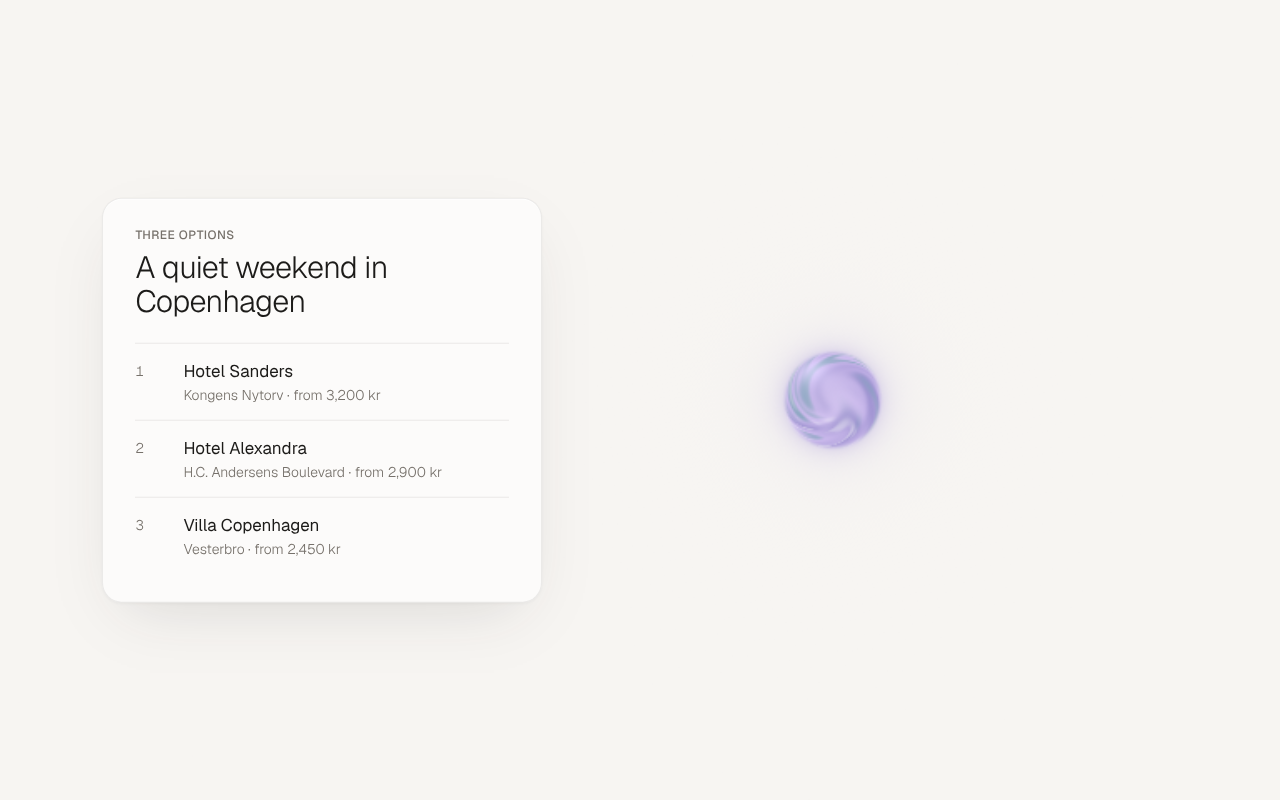
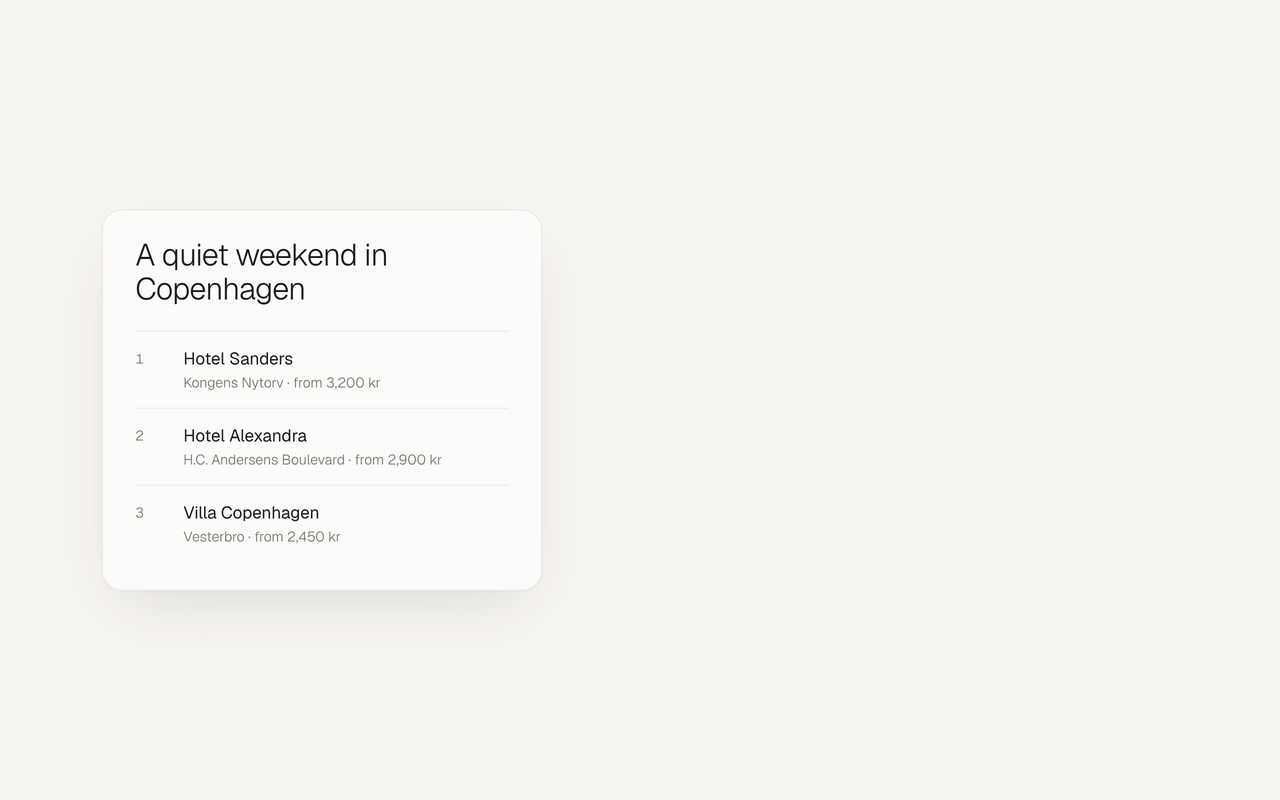
Sharpen the orb, halve its size, drop surface eyebrows
Renders at the display's full pixel density (up to 3x) and stops the
quality governor from going below 1x, gives the orb a pixel-accurate edge
with a hairline of light, and adds fine filaments for definition. The
resting radius halves to 4.25% of the shorter side. Card headings lose
their eyebrow label.

Claude-Session: https://claude.ai/code/session_013Z5uRQHKodhE83WyJZyku8

diff --git a/packages/web/src/orb/placement.ts b/packages/web/src/orb/placement.ts
@@ -14,9 +14,9 @@ export interface Placement {
 }
 
 /** Orb radius as a fraction of the shorter screen side: small, so the page feels open. */
-export const RESTING_SIZE = 0.085;
+export const RESTING_SIZE = 0.0425;
 /** Radius while content is on screen. */
-export const SHARING_SIZE = 0.055;
+export const SHARING_SIZE = 0.03;
 /** Breathing room between the orb, content and the screen edge (fraction of shorter side). */
 const GAP = 0.06;
 /** Candidate positions per axis when searching for open space. */
@@ -61,6 +61,6 @@ export function openSpacePlacement(width: number, height: number, occupied: Rect
   }
 
   // If the content leaves very little room, shrink rather than overlap.
-  const fit = Math.max(best.clearance - short * GAP * 0.5, short * 0.025);
+  const fit = Math.max(best.clearance - short * GAP * 0.5, short * 0.015);
   return { x: best.x, y: best.y, radius: Math.min(radius, fit) };
 }

diff --git a/packages/web/src/main.ts b/packages/web/src/main.ts
@@ -22,8 +22,10 @@ const orb = new Orb(canvas, { reducedMotion });
 const audio = new AudioLevels();
 const meter = new FrameMeter();
 const perf = new PerfOverlay();
-const maxRatio = Math.min(window.devicePixelRatio, 2);
-const quality = new QualityGovernor(maxRatio, maxRatio, (ratio) => orb.setPixelRatio(ratio));
+// Render at the display's full density (the orb is small, so this is cheap), and never
+// let the governor drop below one buffer pixel per CSS pixel: softness reads as blur.
+const maxRatio = Math.min(window.devicePixelRatio, 3);
+const quality = new QualityGovernor(maxRatio, maxRatio, (ratio) => orb.setPixelRatio(ratio), 1);
 
 if (new URLSearchParams(location.search).has('perf')) perf.toggle(true);
 

diff --git a/packages/web/src/dev/demo-surface.ts b/packages/web/src/dev/demo-surface.ts
@@ -28,7 +28,6 @@ export class DemoSurface {
     el.style.translate = '0 -50%';
     el.style.width = 'min(440px, 42vw)';
     el.innerHTML = `
-      <p class="surface__eyebrow">Three options</p>
       <h2 class="surface__title">A quiet weekend in Copenhagen</h2>
       <ol class="surface__list">
         <li><span class="surface__label">Hotel Sanders</span><span class="surface__detail">Kongens Nytorv · from 3,200 kr</span></li>

diff --git a/packages/web/src/styles/surface.css b/packages/web/src/styles/surface.css
@@ -20,15 +20,6 @@
   filter: none;
 }
 
-.surface__eyebrow {
-  margin: 0 0 var(--size-2);
-  font-size: 0.75rem;
-  font-weight: var(--eos-weight-medium);
-  letter-spacing: var(--eos-tracking-wide);
-  text-transform: uppercase;
-  color: var(--eos-stone);
-}
-
 .surface__title {
   margin: 0 0 var(--size-5);
   font-size: clamp(1.5rem, 2.4vw, 2.25rem);

diff --git a/packages/web/src/orb/orb.ts b/packages/web/src/orb/orb.ts
@@ -45,7 +45,7 @@ export class Orb {
   private time = 0;
   private swirlPhase = 0;
   private flowPhase = 0;
-  private pixelRatio = Math.min(window.devicePixelRatio, 2);
+  private pixelRatio = Math.min(window.devicePixelRatio, 3);
 
   constructor(canvas: HTMLCanvasElement, options: OrbOptions) {
     this.motion = options.reducedMotion ? 0.3 : 1;

diff --git a/docs/performance.md b/docs/performance.md
@@ -12,10 +12,11 @@ or under 16.7 ms.
   noise entirely and only compute the aura.
 - **Bounded noise.** Inside the orb: six simplex samples (two for the warp, three colour
   fields, one for the edge ripple). Nothing loops on screen size.
+- **Full-density rendering.** The orb renders at the display's pixel ratio (up to 3×) so it
+  stays crisp; it is small, and pixels away from it only compute the aura.
 - **Adaptive resolution.** [`QualityGovernor`](../packages/web/src/perf/frame-meter.ts) drops
-  the render scale in 0.25 steps (down to 0.6×) after 1.5 s of slow frames and climbs back
-  after 5 s of headroom, so a weak GPU degrades to slightly softer pixels, never to stutter.
-- **Pixel ratio capped at 2×.** A 4K panel does not render 4× the pixels for a soft glow.
+  the render scale in 0.25 steps after 1.5 s of slow frames and climbs back after 5 s of
+  headroom, but never below 1× (one buffer pixel per CSS pixel), so it never looks blurry.
 - **Reduced motion.** With `prefers-reduced-motion`, motion amplitudes and speeds drop to 30%.
 
 ## How to measure

diff --git a/docs/design.md b/docs/design.md
@@ -60,7 +60,7 @@ change to one state never breaks a transition.
 
 ## Space
 
-The orb is small (8.5% of the shorter screen side) and centred, so the page reads as clean
+The orb is small (a radius of 4.25% of the shorter screen side) and centred, so the page reads as clean
 and open. When content appears it fades into existence (opacity, a slight lift and a soft
 focus pull; [`surface.css`](../packages/web/src/styles/surface.css)), and the orb glides into
 the most open space left on screen at a smaller size
